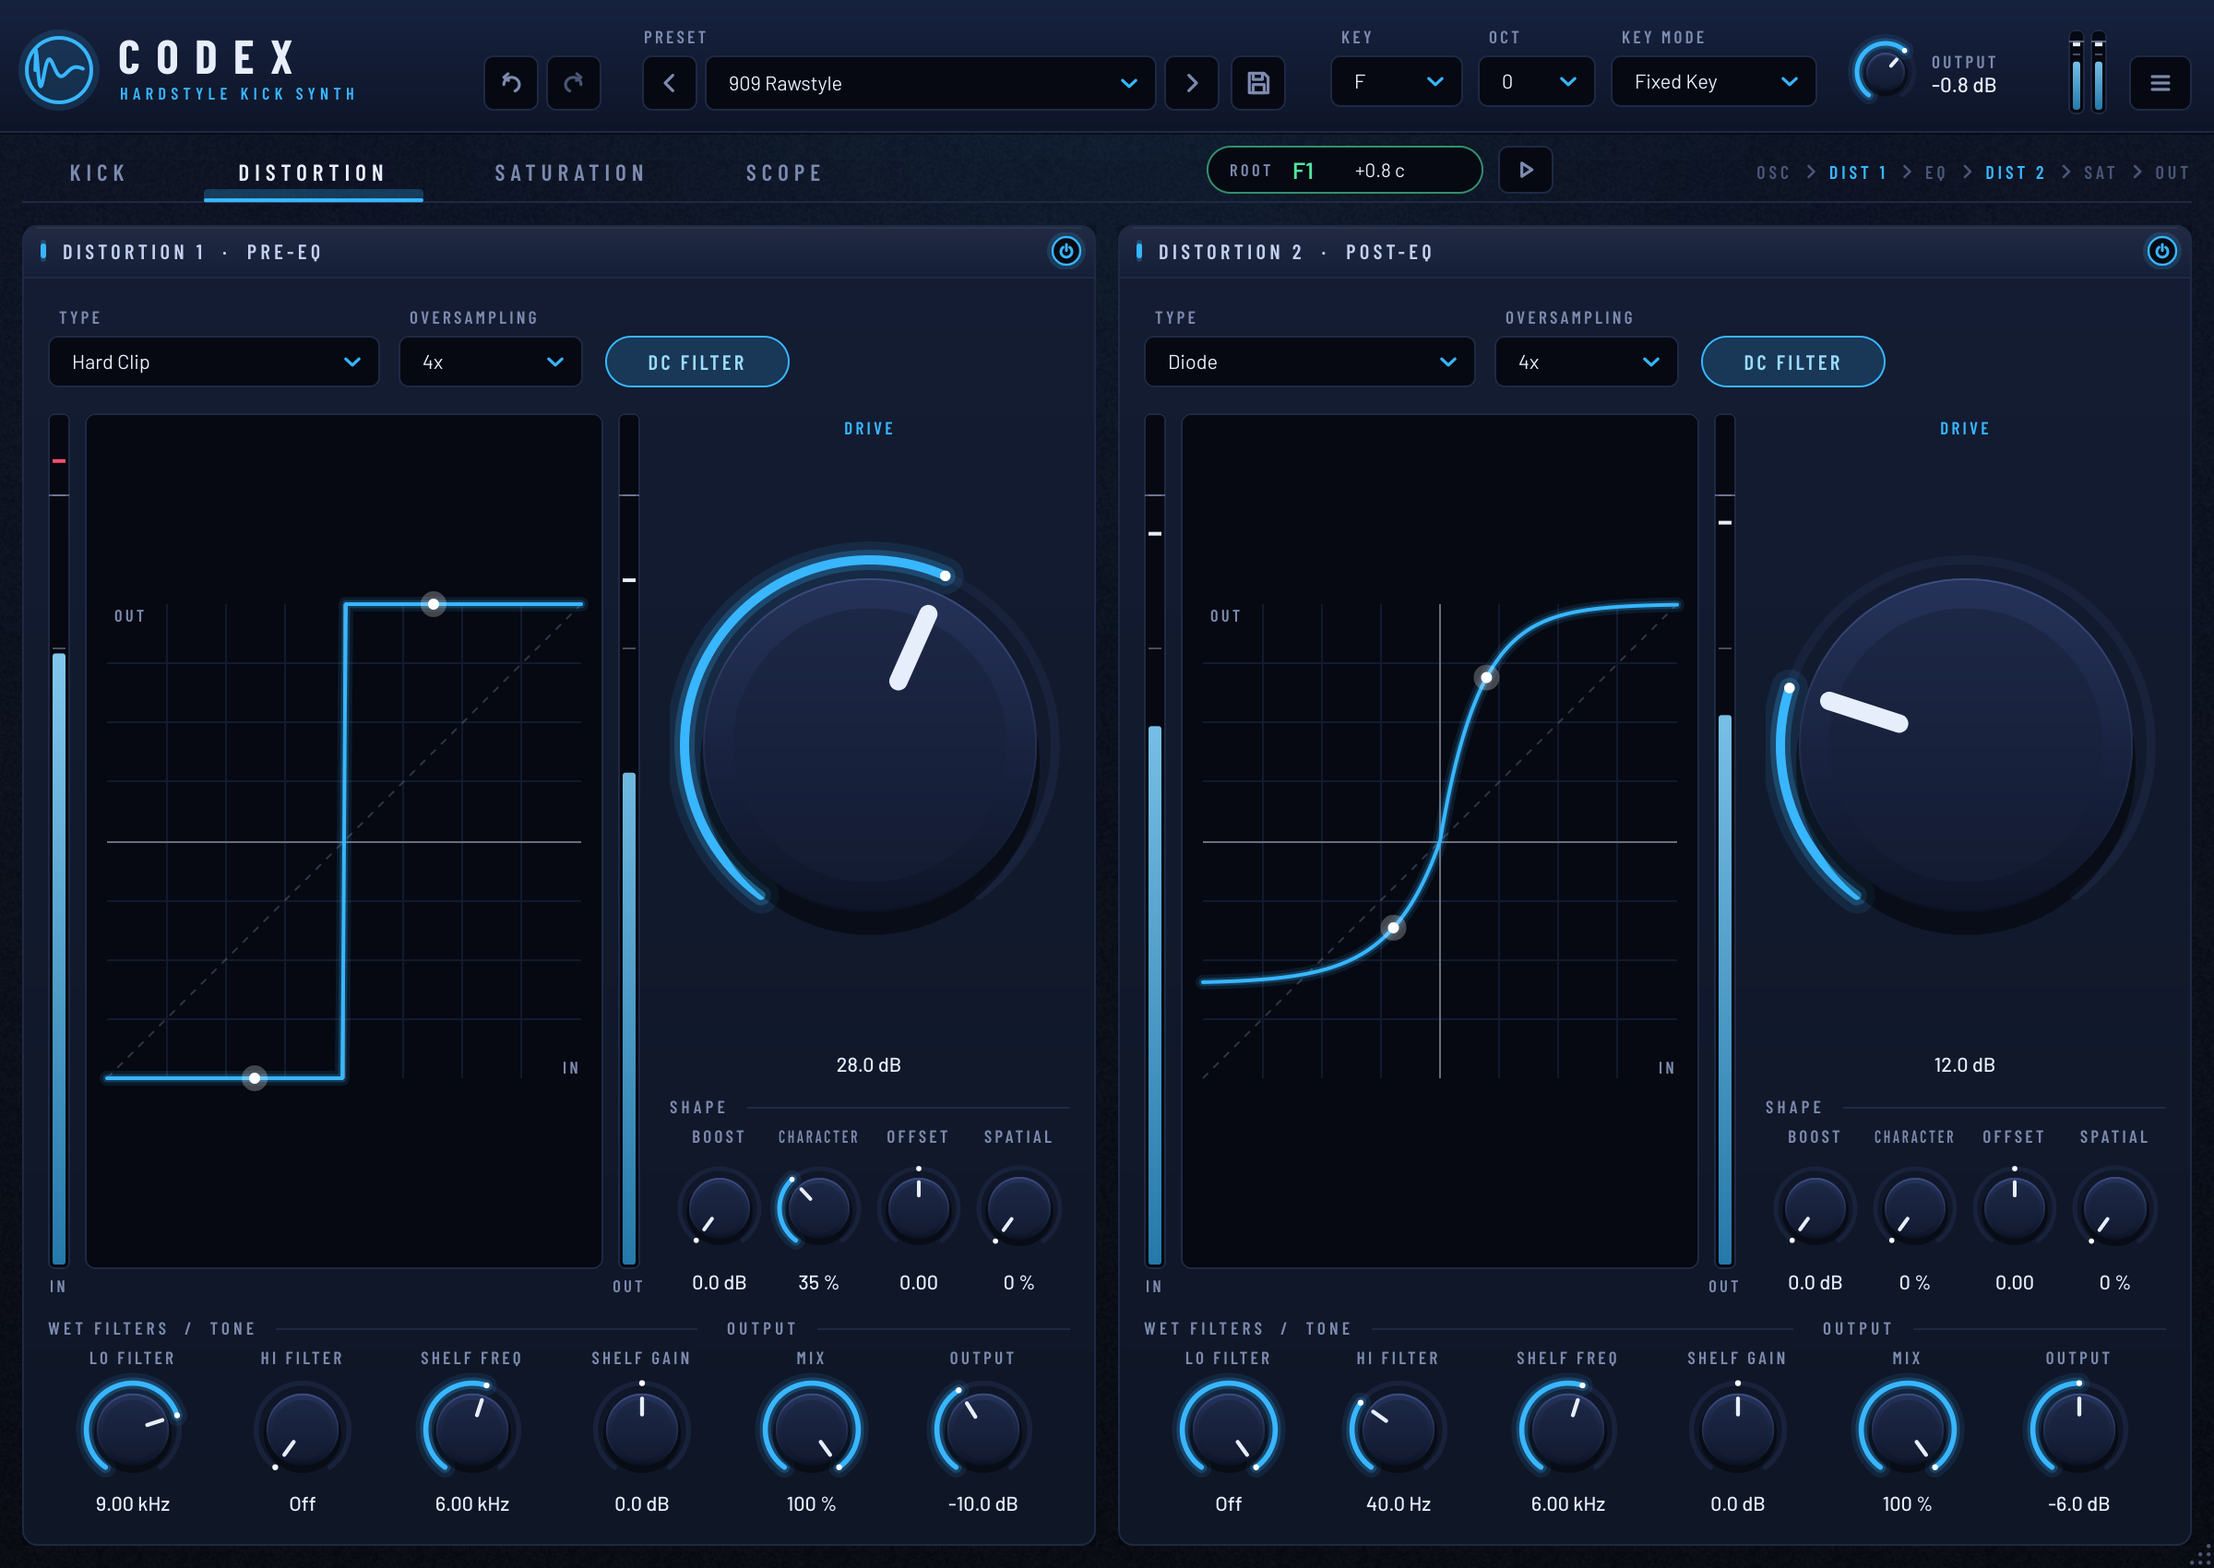
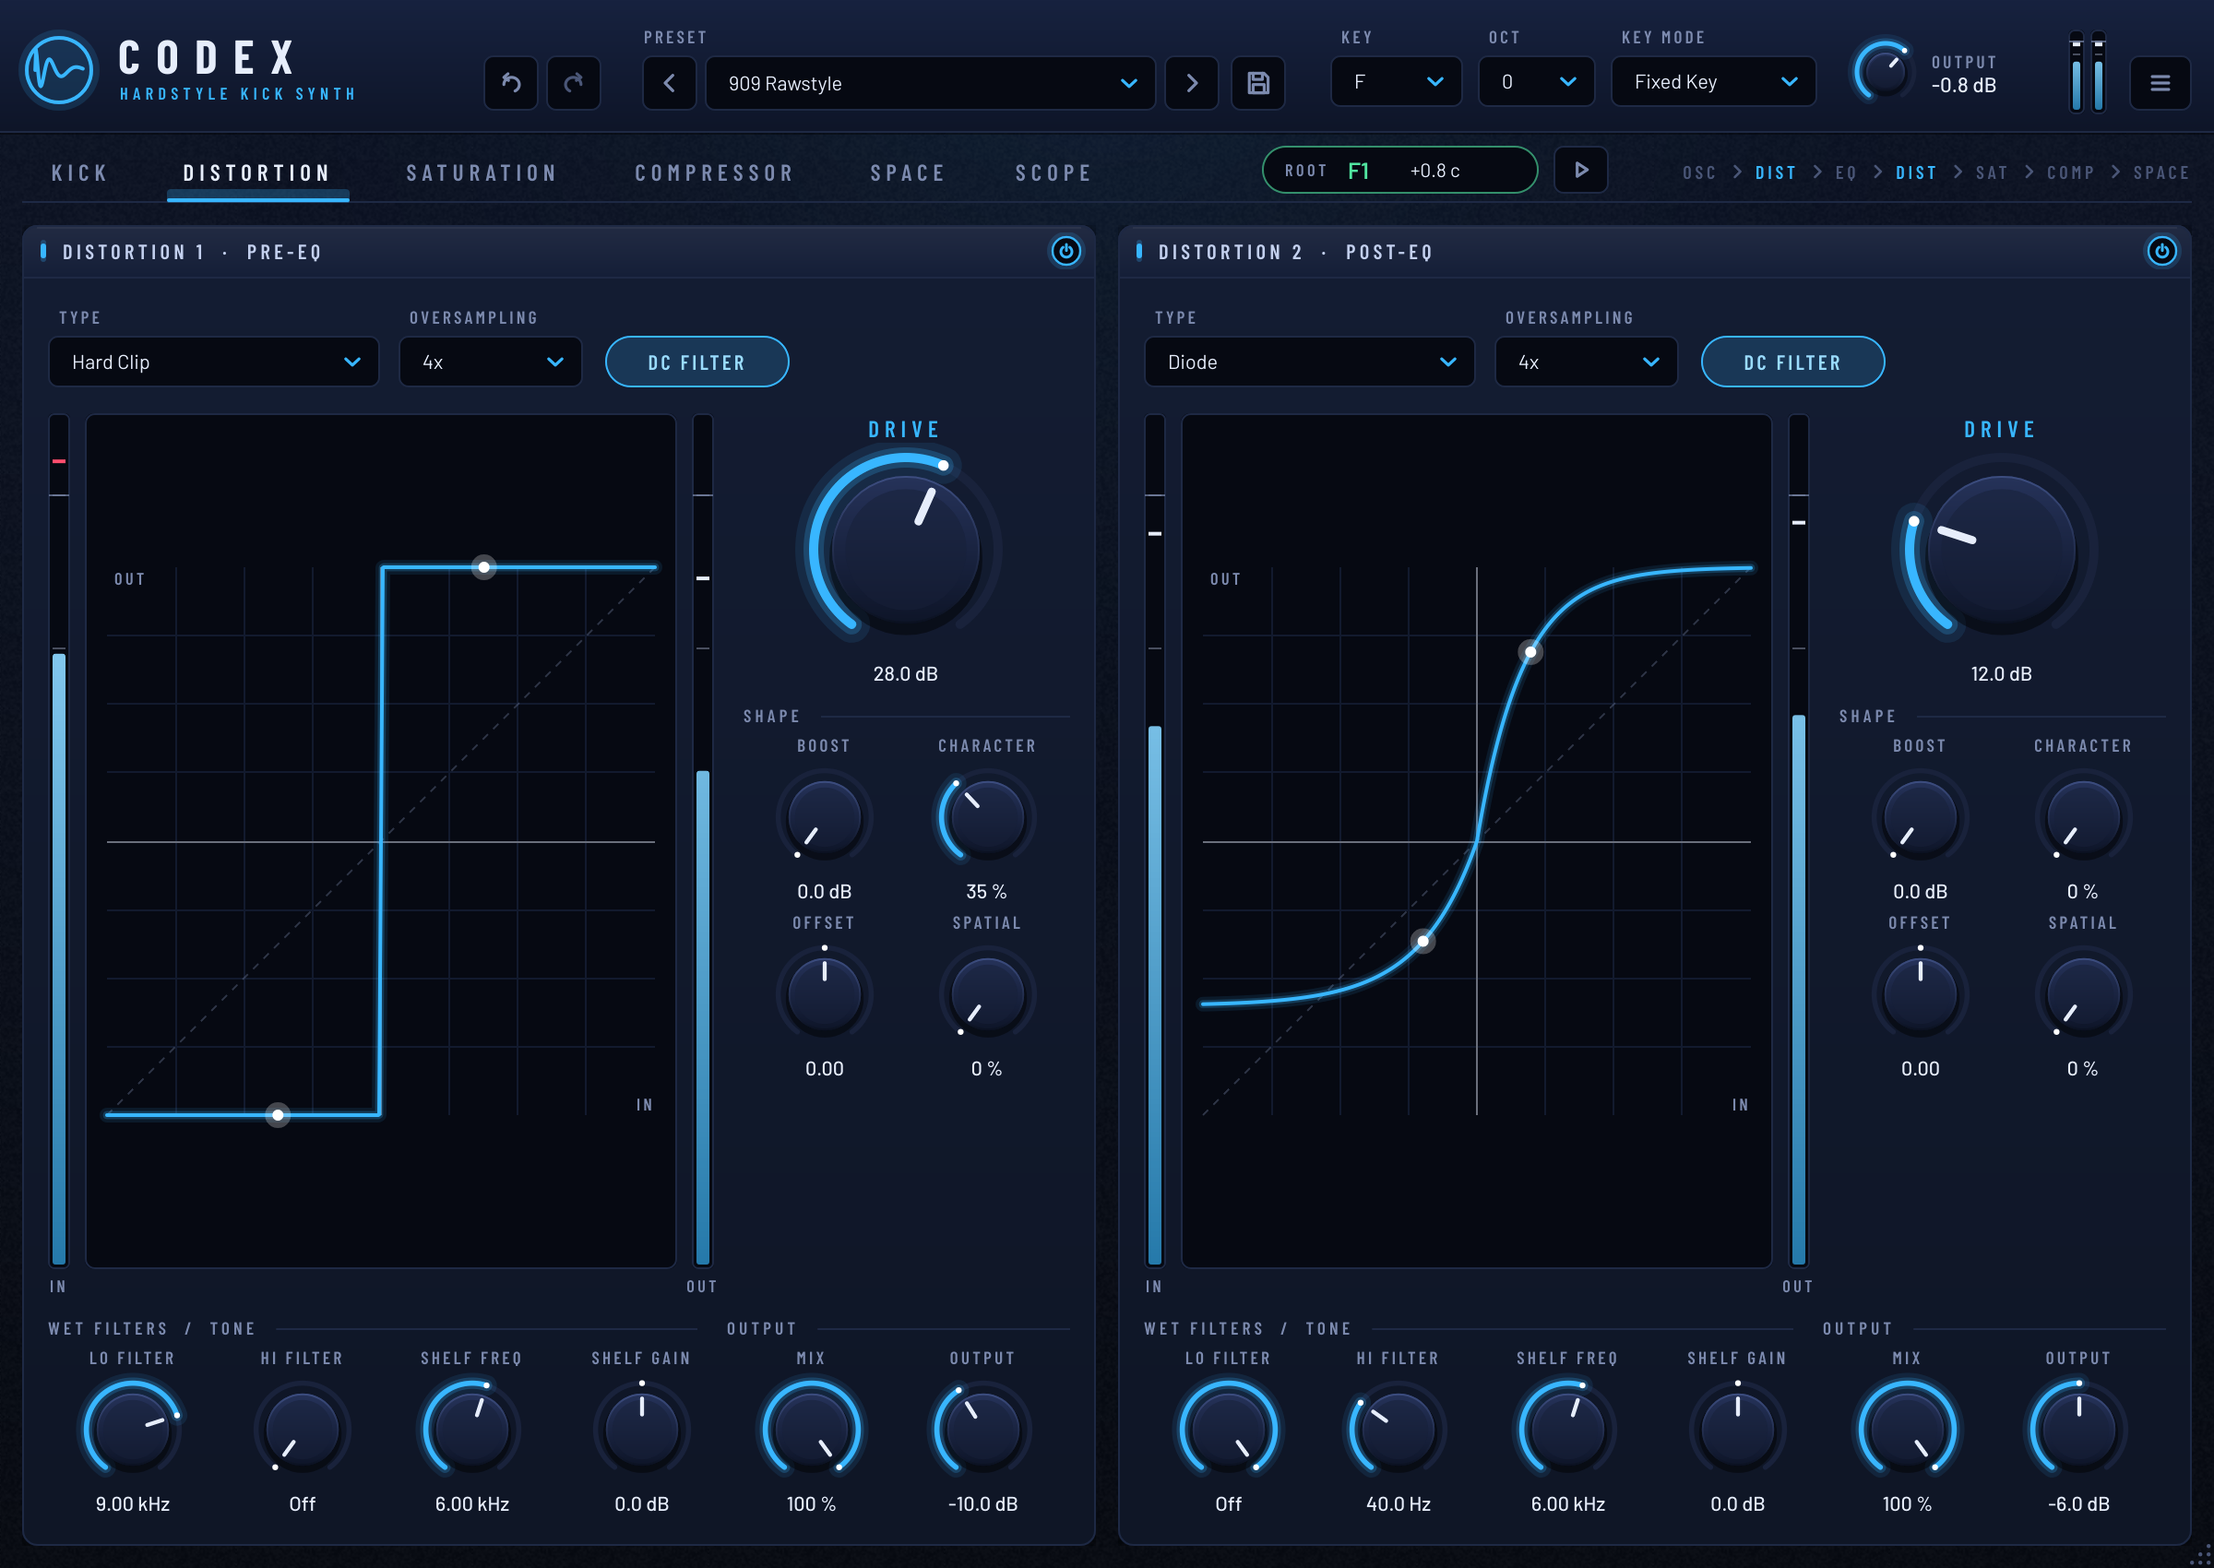
Docs: README for compressor/space/24-band EQ, changelog, contributing guide, issue and PR templates
Claude-Session: https://claude.ai/code/session_01XxMp2YJXw4rSjWE8GsvmNR

diff --git a/README.md b/README.md
@@ -1,14 +1,22 @@
 # Codex
 
 **A free hardstyle kick synthesizer.** Codex builds kicks the way they were made before sample packs: a swept oscillator
-(or a synthesized 909), distortion, EQ, distortion again and multiband saturation. There are no samples; every kick is
-generated in real time, in the key of your track.
+(or a synthesized 909), distortion, EQ, distortion again, multiband saturation, a multiband compressor and a room reverb.
+There are no samples; every kick is generated in real time, in the key of your track.
+
+```
+OSC / 909 -> DISTORTION 1 -> EQ -> DISTORTION 2 -> SATURATION -> COMPRESSOR -> SPACE -> OUTPUT
+```
 
 ![Codex: kick page with mid/side EQ](docs/screenshot.png)
 
-| Distortion | Saturation | Scope |
+| Distortion | Saturation | Compressor |
 |---|---|---|
-| ![Distortion page](docs/screenshot-distortion.png) | ![Saturation page](docs/screenshot-saturation.png) | ![Scope page](docs/screenshot-scope.png) |
+| ![Distortion page](docs/screenshot-distortion.png) | ![Saturation page](docs/screenshot-saturation.png) | ![Compressor page](docs/screenshot-compressor.png) |
+
+| Space | Scope |
+|---|---|
+| ![Space page](docs/screenshot-space.png) | ![Scope page](docs/screenshot-scope.png) |
 
 Formats: **VST3** (Windows, macOS, Linux), **AU** (macOS) and a **Standalone** app.
 
@@ -48,7 +56,6 @@ distortion, so you can see your kick is in key. It turns green within 10 cents o
 | Save | Saves a user preset (`Documents/Codex/Presets/*.cdxpreset`). |
 | Key / Oct | Root note, **F to E** (F1 = 43.65 Hz … E2 = 82.41 Hz), plus an octave shift. Presets never change the key. |
 | Key Mode | *Fixed Key* plays the selected key from any MIDI note; *Follow MIDI* plays the note you press. |
-| KICK | Plays the kick in the selected key. |
 | Output | Final output level, with a stereo meter. |
 | Menu | Save/delete presets, open the preset folder, interface size (75–200 %), tooltips on/off, About. |
 | ROOT / play | Tuner readout of the output's root note, and a play button that previews the kick in the selected key. |
@@ -60,11 +67,11 @@ distortion, so you can see your kick is in key. It turns green within 10 cents o
 | **Source: 909** | Synthesized 909-style bass drum. *909 Model* (Classic, Long Tail, Punch, Deep, Hard Attack, Gabber, Early Hardstyle, Boom, Driven, Short Tok) plus the original's *Tune* (sweep depth), *Attack* (click) and *Decay*. |
 | **Pitch Envelope** | ADSR for the pitch sweep, with *Amount* (semitones above the root) and *Curve*. Inactive in 909 mode. |
 | **Amp Envelope** | ADSR for volume with *Curve*. In 909 mode it acts as a gate (attack and release only). |
-| **Equalizer** | 6 bands, 10 shapes: Bell, Low/High Shelf, Low/High Cut, Notch, Band Pass, Tilt Shelf, Flat Tilt, All Pass. Slopes 6–96 dB/oct. Each band has a **stereo placement** (Stereo, Left, Right, **Mid**, **Side**); the display draws a result curve per channel group. Right-click a node to **split** a band into L+R or M+S. *Gain Scale* scales all gains at once. Analyzer with Pre/Post/Freeze and range/speed/tilt settings; display range 3/6/12/30 dB (expands automatically). |
+| **Equalizer** | Up to **24 bands** (the Pro-Q 4 limit): double-click the display or press **+ ADD** to add one, **DELETE** (or the Delete key) to remove it, the power button or Alt-click to bypass it; only bands in use are shown. 10 shapes: Bell, Low/High Shelf, Low/High Cut, Notch, Band Pass, Tilt Shelf, Flat Tilt, All Pass. Slopes 6–96 dB/oct. Each band has a **stereo placement** (Stereo, Left, Right, **Mid**, **Side**); the display draws a result curve per channel group. Right-click a node to **split** a band into L+R or M+S. *Gain Scale* scales all gains at once. Analyzer with Pre/Post/Freeze and range/speed/tilt settings; display range 3/6/12/30 dB (expands automatically). |
 
 **EQ mouse controls:** drag a node for frequency/gain (Shift: fine, Ctrl/Cmd + vertical drag: Q) · mouse wheel: Q, or slope on
 cut filters (Ctrl/Cmd + wheel: gain) · Alt-click or double-click a node: on/off · double-click empty space: new band (far left = low
-cut, far right = high cut, bottom = notch, elsewhere = bell) · right-click a node: shape, slope, stereo placement, split, reset ·
+cut, far right = high cut, bottom = notch, elsewhere = bell) · right-click a node: shape, slope, stereo placement, split, reset, delete · Delete / Backspace: delete the selected band ·
 hover the display to read the frequency and note.
 
 ### Distortion page
@@ -78,6 +85,9 @@ Two full distortion units, one **before** and one **after** the EQ:
 | Output | *Mix* (dry/wet), *Output*. |
 | Options | *Oversampling* (Off/2x/4x/8x) and *DC Filter*. |
 
+A bypassed unit is dimmed and shows an **ENABLE** card, so a switched-off stage cannot go unnoticed (the *909 Clean* preset
+bypasses both units on purpose; every other preset switches them back on).
+
 ### Saturation page
 Multiband saturation after Distortion 2, modelled on the feature set of classic multiband saturators:
 
@@ -86,6 +96,25 @@ Multiband saturation after Distortion 2, modelled on the feature set of classic 
 | Bands | 1–6 bands. Hover the top of the display and click **+** to split a band; the **×** in the band panel removes it. Drag crossover lines to move them, click a crossover handle for the slope (6/12/24/48 dB/oct, Linkwitz-Riley, phase-aligned so bands sum flat). Drag a band's **level handle** for level (Alt-drag: drive, Ctrl/Cmd-click: reset, wheel: level). M / S / B badges: mute, solo, bypass (Ctrl/Cmd-click: exclusive). |
 | Per band | *Style* (20 styles: Tube, Tape, Transformer, Amp, Clip, FX), *Drive* (output level compensated automatically) with *Drive Pan*, *Mix*, *Level* with *Level Pan*, *Feedback* + *Feedback Freq* (dies away when the input stops), *Dynamics* (right: compression, left: gating), *Tone*: Bass, Mid, Treble, Presence. |
 | Global | Power, *Channel Mode* (Stereo or Mid/Side), *Oversampling* (Off/2x/4x/8x), *Input*, *Mix*, *Output*. |
+
+### Compressor page
+Multiband compressor after the Saturation stage, modelled on the controls of FabFilter Pro-C 3 and the LA-3A:
+
+| Group | Controls |
+|---|---|
+| Display | Scrolling input (grey) and output (blue) levels with each band's gain change. Drag the dashed **threshold** line; drag inside the **knee display** above the threshold to set the ratio. The band strip below shows live gain change per band; drag its dividers to move the crossovers (24 dB/oct Linkwitz-Riley, phase-aligned). |
+| Per band | *Direction*: **Downward** (classic), **Upward** (brings quiet parts up, e.g. the tail) or **Both** (the threshold becomes a target level). *Threshold*, *Ratio* (1:1 to ∞), *Knee* (0–48 dB), *Range* (maximum gain change), *Attack*, *Release*, *Gain*; Mute / Solo / Bypass. |
+| Global | *Style*: Clean, Punch, Smooth, Bus, Mastering, Classic, Vari-Mu, Opto, **T4 Opto (LA-3A)** (fixed ~10 ms attack, two-stage program-dependent release; *Compress / Limit* switch), Pumping, TTM (upward + downward). *Bands* (1–4), *Lookahead* (Off – 10 ms, reported as latency), *Hold*, *SC High-Pass*, *Mix* (parallel), *Output*, *Auto Gain*. |
+
+### Space page
+Stereo room reverb at the end of the chain, for width and ambience. The layout follows ValhallaRoom:
+
+| Group | Controls |
+|---|---|
+| Main | *Mode* (Room, Large Room, Chamber, Hall, Plate, Warehouse), *Mix*, *Predelay*, *Decay* (RT60), *Depth* (early ↔ late), *High Cut*, *Low Cut* (keeps the sub out of the reverb), *Width*, *Ducking* (reverb dips while the kick hits). |
+| Early | *Size*, *Cross*, *Send* (into the late reverb), *Diffusion*, *Mod Rate*, *Mod Depth*. |
+| Late | *Size*, *Cross*, *Diffusion*, *Mod Rate*, *Mod Depth* (8-line modulated feedback delay network). |
+| Decay EQ | *Bass Mult/Xover*, *High Mult/Xover*: decay of the lows and highs relative to *Decay*. The display shows the decay time across the spectrum; drag the BASS / HIGH handles. |
 
 ### Scope page
 | Panel | What it shows |
@@ -135,12 +164,18 @@ Source/
   PresetManager.*       factory and user presets
   PluginProcessor.*     MIDI, the processing chain, scope capture
   DSP/                  KickVoice (synth + 909 engines), Kick909 models, CurveEnvelope,
-                        ClipDistortion, ParametricEQ, PitchDetector
-  GUI/                  look-and-feel, widgets, EQ, distortion units, tuner, scope, overlays, editor
+                        ClipDistortion, ParametricEQ, MultibandSaturator, Compressor,
+                        SpaceReverb, PitchDetector
+  GUI/                  look-and-feel, widgets, EQ, distortion, saturation, compressor, space,
+                        tuner, scope, overlays, editor
 Resources/Fonts/        Barlow (SIL Open Font License)
 docs/                   screenshots, research notes, release checklist
 tools/Render.cpp        offline test tool
 ```
+
+## Contributing
+See [CONTRIBUTING.md](CONTRIBUTING.md). Repository rule: **files are never deleted**; deprecated files stay in place
+with a note. Changes are listed in [CHANGELOG.md](CHANGELOG.md).
 
 ## Credits and licences
 - Built with [JUCE](https://juce.com).

diff --git a/CONTRIBUTING.md b/CONTRIBUTING.md
@@ -1,0 +1,34 @@
+# Contributing to Codex
+
+Thanks for helping make Codex better. Codex is a free hardstyle kick synthesizer; the goal is a tool that genuinely
+helps producers.
+
+## Ground rules
+- **Files are never deleted.** The `No file deletions` check fails any pull request that removes a file. If a file
+  becomes obsolete, leave it in place and mark it as deprecated in a comment at the top (see `Source/GUI/Scope.h`).
+- Work on a branch and open a pull request against `main`; `main` is protected (no force pushes, no direct deletion).
+- Keep the offline tests passing (see below). New DSP features should come with a test in `tools/Render.cpp`.
+- Parameter IDs are part of saved projects and presets: never rename or reuse an ID. Add new parameters instead.
+
+## Building
+```bash
+cmake -S . -B build -DCMAKE_BUILD_TYPE=Release -DHK_BUILD_TOOLS=ON
+cmake --build build --config Release
+```
+On Linux, install the JUCE dependencies first (see the README).
+
+## Testing
+```bash
+build/CodexRender_artefacts/Release/CodexRender test-output/
+```
+It renders every factory preset and checks tuning, distortion, EQ, saturation, compressor and reverb behaviour, state
+save/restore and the GUI (screenshots are written to the output folder). The run must end with `ALL CHECKS PASSED`.
+CI (`.github/workflows/build.yml`) builds Windows, macOS and Linux, runs these tests and validates the VST3 with pluginval.
+
+## Code style
+- C++17, JUCE 8. Four-space indentation, braces on their own line, `juce::` prefixes in headers.
+- No allocations or locks on the audio thread.
+- User-facing text: plain English, sentence case. Every parameter needs a tooltip in `Source/GUI/Help.h`.
+
+## Reporting bugs
+Use the bug report template. Include your DAW, OS, plugin format and the steps to reproduce; a saved preset helps.

diff --git a/CHANGELOG.md b/CHANGELOG.md
@@ -1,0 +1,26 @@
+# Changelog
+
+All notable changes to Codex. Versions follow [Semantic Versioning](https://semver.org).
+
+## [Unreleased]
+### Added
+- **Compressor tab**: multiband (1–4 bands) downward, upward and two-way compression. Styles modelled on FabFilter
+  Pro-C 3 (Clean, Punch, Smooth, Bus, Mastering, Classic, Vari-Mu, Opto, Pumping, TTM) plus an LA-3A-style
+  T4 Opto with Compress / Limit. Threshold, ratio, knee, range, attack, release, hold, lookahead, side-chain high-pass,
+  auto gain, parallel mix. Scrolling level / gain-change display with a draggable threshold and a knee display.
+- **Space tab**: stereo room reverb modelled on ValhallaRoom's controls (mode, predelay, decay, depth, early and late
+  sections, decay EQ with bass/high multipliers) plus Low Cut, Width and Ducking for kicks. Off by default.
+- **EQ**: up to 24 bands (Pro-Q 4 limit) with add, delete and bypass; only bands in use are shown.
+- Distortion units show a clear **BYPASSED** state with an ENABLE button.
+
+### Changed
+- Smaller Drive knobs in the distortion units and the saturation band panel.
+- The host's tail length follows the reverb decay.
+
+### Fixed
+- Switching from *909 Clean* (both distortions bypassed on purpose) to another preset re-enables the distortion units
+  (covered by an automated test).
+
+## [1.0.0] - first test build
+- Synth and 909 engines with key selection F–E, pitch and amp ADSR, two distortion units (Distroyer-style), a Pro-Q-style
+  EQ with mid/side placement, multiband saturation (Saturn-style), scope page, tuner, presets, undo/redo, resizable UI.

diff --git a/.github/PULL_REQUEST_TEMPLATE.md b/.github/PULL_REQUEST_TEMPLATE.md
@@ -1,0 +1,12 @@
+## Summary
+
+
+## Testing
+- [ ] `CodexRender` ends with `ALL CHECKS PASSED`
+- [ ] Tested in a DAW (which one?):
+
+## Checklist
+- [ ] No files deleted (deprecated files stay in place)
+- [ ] No parameter IDs renamed or reused
+- [ ] Tooltips added for new parameters (`Source/GUI/Help.h`)
+- [ ] CHANGELOG.md updated

diff --git a/.github/ISSUE_TEMPLATE/bug_report.md b/.github/ISSUE_TEMPLATE/bug_report.md
@@ -1,0 +1,23 @@
+---
+name: Bug report
+about: Something does not work as expected
+labels: bug
+---
+
+**What happened**
+
+
+**What you expected**
+
+
+**Steps to reproduce**
+1.
+2.
+
+**Setup**
+- Codex version:
+- DAW and version:
+- OS:
+- Format (VST3 / AU / Standalone):
+
+**Preset / screenshot** (optional)

diff --git a/.github/ISSUE_TEMPLATE/feature_request.md b/.github/ISSUE_TEMPLATE/feature_request.md
@@ -1,0 +1,13 @@
+---
+name: Feature request
+about: Suggest an idea for Codex
+labels: enhancement
+---
+
+**What would you like to do?**
+
+
+**How would it help your kicks?**
+
+
+**References** (plugins, hardware, videos; optional)
